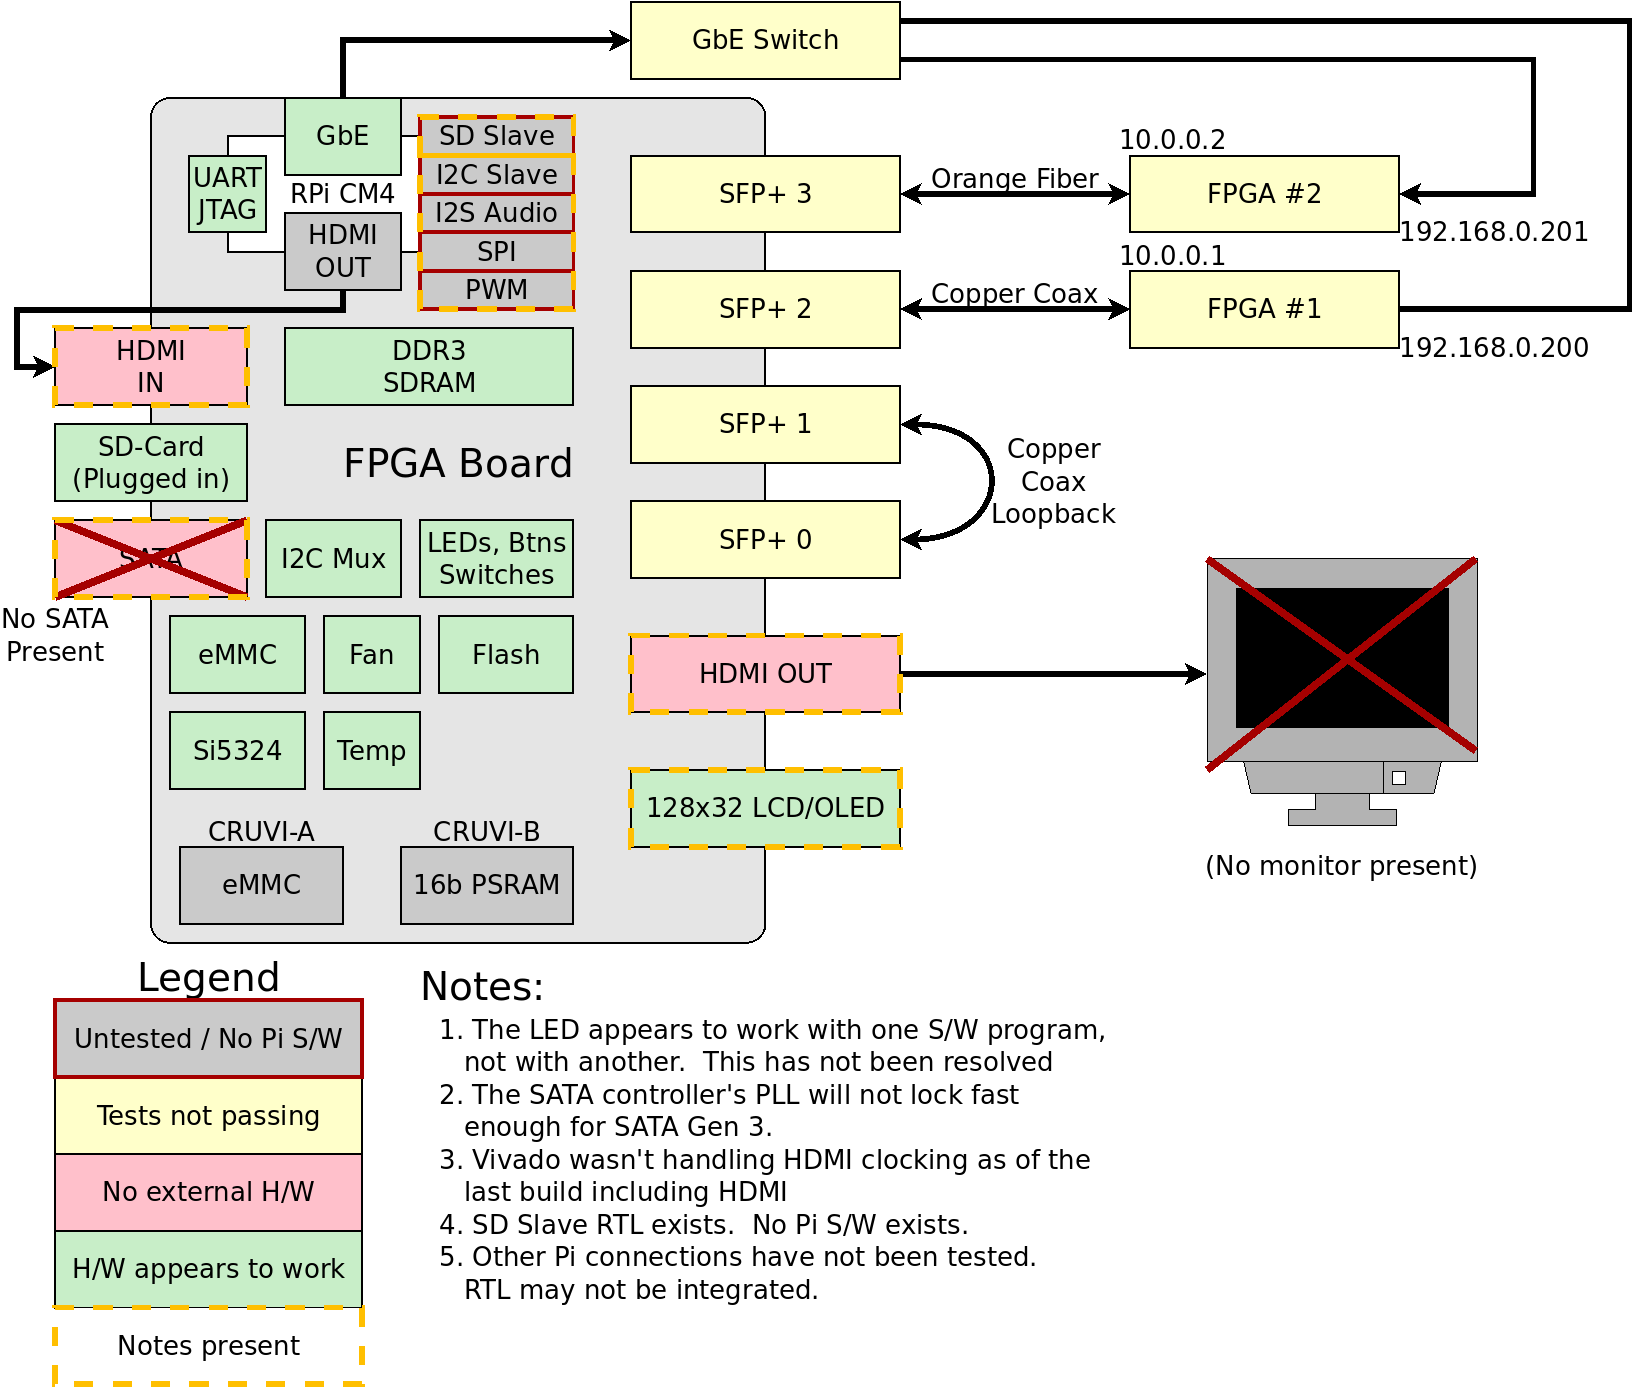
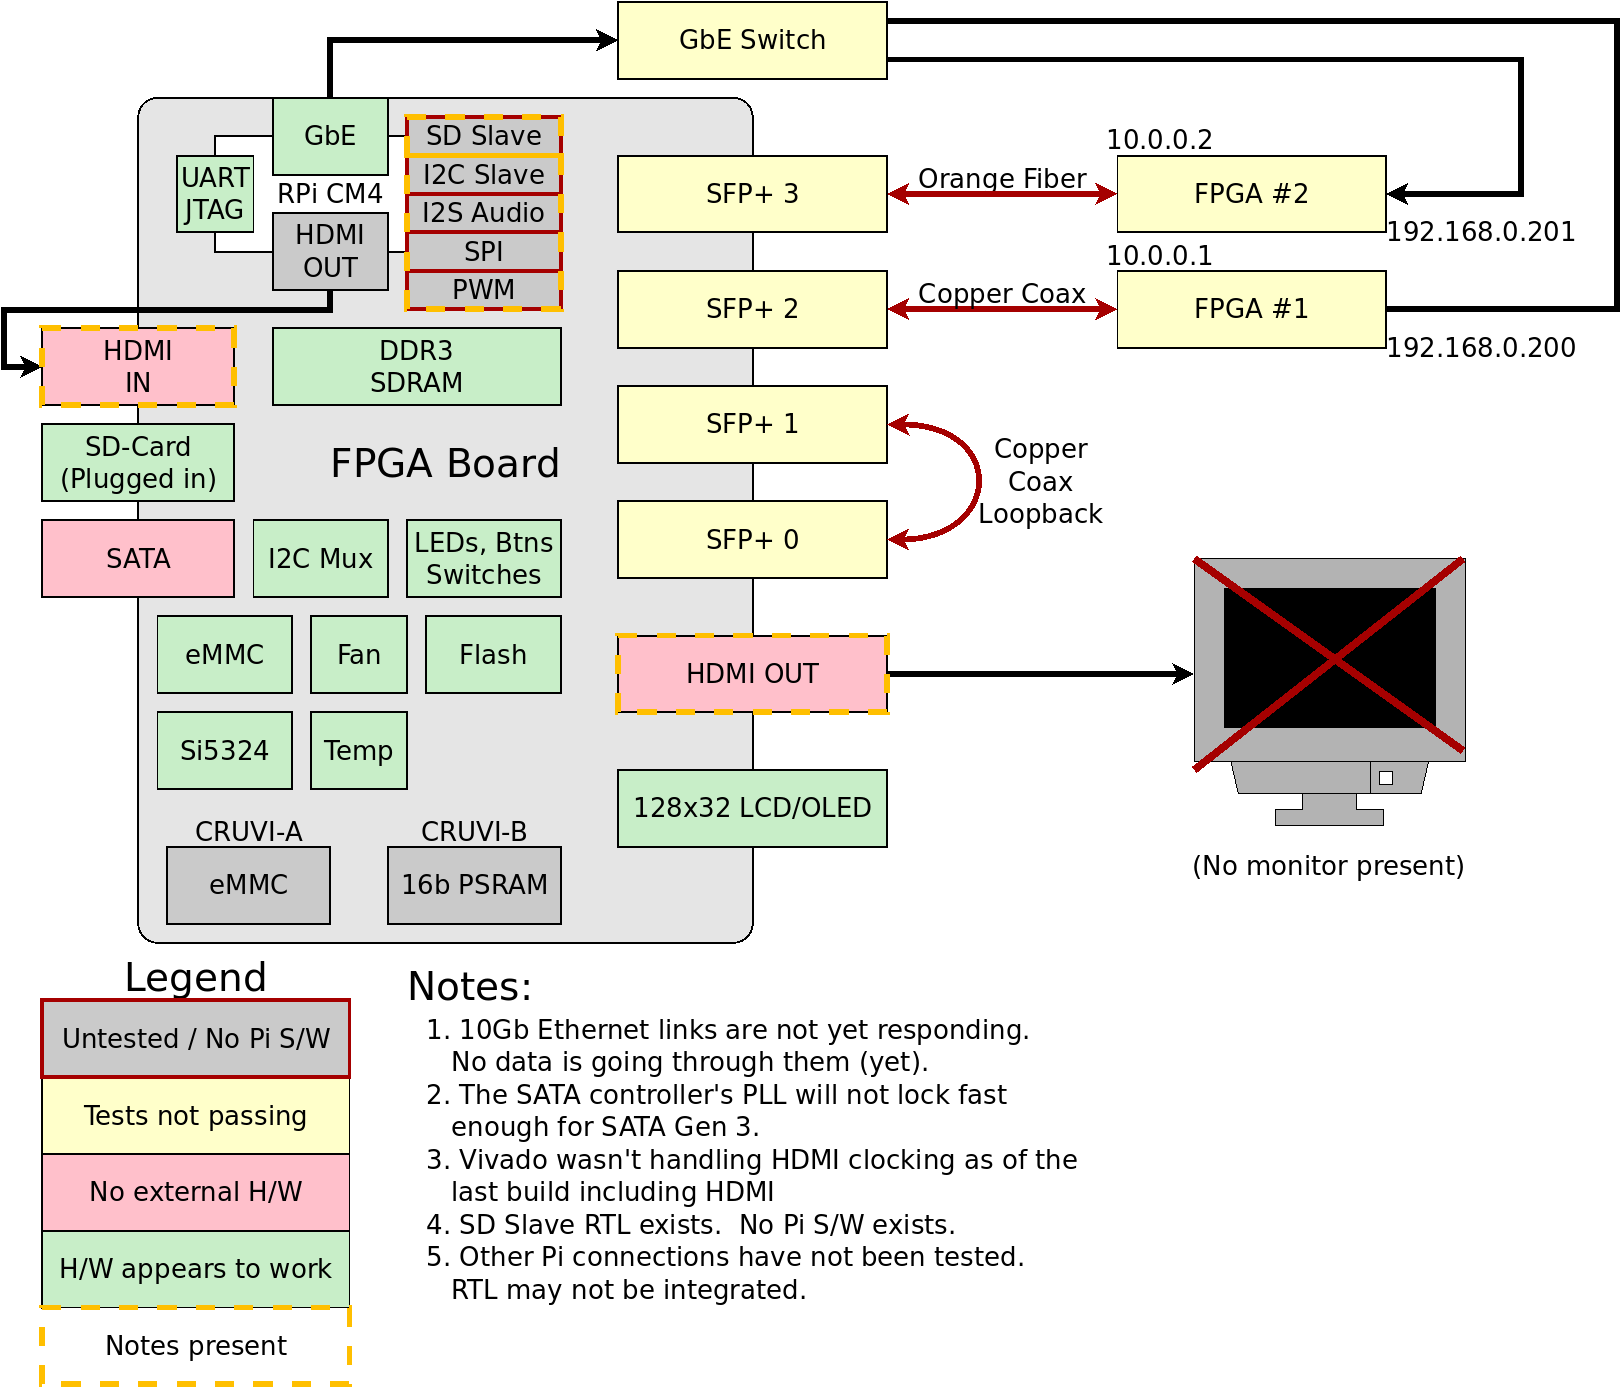
NEW: Simulation console output file option

diff --git a/bench/formal/report.html b/bench/formal/report.html
@@ -1,7 +1,7 @@
 <HTML><HEAD><TITLE>Formal Verification Report</TITLE></HEAD>
 <BODY>
 <H1 align=center>10Gb Ethernet Board Verification Report</H1>
-<H2 align=center>20260810</H2>
+<H2 align=center>20260814</H2>
 <P align=center><TABLE border>
 <TR><TH>Status</TH><TH>Elapsed</TH><TH>Component</TD><TH>Proof</TH><TH>Component description</TH></TR>
 <TR></TR>
@@ -71,7 +71,7 @@
 <TR><TD bgcolor=#caeec8><A HREF="pktvfiford_cvr/logfile.txt">5 Cover points</A></TD><TD>1:43:06</TD><TD>pktvfiford</TD><TD>_cvr</TD></TR>
 <TR></TR>
 <TR><TD bgcolor=#caeec8><A HREF="pktvfifowr_cvr/logfile.txt">7 Cover points</A></TD><TD>0:00:05</TD><TD>pktvfifowr</TD><TD>_cvr</TD><TD rowspan=4>Virtual Packet FIFO (Write)</TD></TR>
-<TR><TD bgcolor=#e5e5e5><A HREF="pktvfifowr_prf512/logfile.txt">Unknown</A></TD><TD>45:00:00</TD><TD>pktvfifowr</TD><TD>_prf512</TD></TR>
+<TR><TD bgcolor=#caeec8><A HREF="pktvfifowr_prf512/logfile.txt">Pass</A></TD><TD>78:00:01</TD><TD>pktvfifowr</TD><TD>_prf512</TD></TR>
 <TR><TD bgcolor=#caeec8><A HREF="pktvfifowr_prf32/logfile.txt">Pass</A></TD><TD>22:00:00</TD><TD>pktvfifowr</TD><TD>_prf32</TD></TR>
 <TR><TD bgcolor=#caeec8><A HREF="pktvfifowr_prf/logfile.txt">Pass</A></TD><TD>32:00:00</TD><TD>pktvfifowr</TD><TD>_prf</TD></TR>
 <TR></TR>

diff --git a/sim/dbluartsim.cpp b/sim/dbluartsim.cpp
@@ -100,10 +100,15 @@ int	DBLUARTSIM::setup_listener(const int port) {
 
 DBLUARTSIM::DBLUARTSIM(const int port, const bool copy_to_stdout)
 		: m_copy(copy_to_stdout) {
+	// {{{
 	m_debug = false;
 	m_con = m_cmd = -1;
-	m_skt = setup_listener(port);
-	m_console = setup_listener(port+1);
+	m_dump = NULL;
+	if (port > 0) {
+		m_skt = setup_listener(port);
+		m_console = setup_listener(port+1);
+	} else
+		m_skt = m_console = -1;
 	m_rxpos = m_cmdpos = m_conpos = m_ilen = 0;
 	m_started_flag = false;
 	setup(25);	// Set us up for (default) 8N1 w/ a baud rate of CLK/25
@@ -113,8 +118,10 @@ DBLUARTSIM::DBLUARTSIM(const int port, const bool copy_to_stdout)
 	m_tx_state = TXIDLE;
 	m_cllen = 0;
 }
+// }}}
 
 void	DBLUARTSIM::kill(void) {
+	// {{{
 	// Close any active connection
 	if (m_con >= 0)	    {
 		const	char	*SIM_CLOSED = "\n[SIM] Connection-Closed\n";
@@ -155,8 +162,10 @@ void	DBLUARTSIM::kill(void) {
 	m_console = -1;
 	m_cmd     = -1;
 }
+// }}}
 
 void	DBLUARTSIM::setup(unsigned isetup) {
+	// {{{
 	if (isetup != m_setup) {
 		m_setup = isetup;
 		m_baud_counts = (isetup & 0x0ffffff);
@@ -167,19 +176,21 @@ void	DBLUARTSIM::setup(unsigned isetup) {
 		m_evenp   = (isetup >> 24)&1;
 	}
 }
+// }}}
 
 void	DBLUARTSIM::poll_accept(void) {
+	// {{{
 	struct	pollfd	pb[2];
 	int	npb = 0;
 
 	// Check if we need to accept any connections
-	if (m_cmd < 0) {
+	if ((m_cmd < 0)&&(m_skt >= 0)) {
 		pb[npb].fd = m_skt;
 		pb[npb].events = POLLIN;
 		npb++;
 	}
 
-	if (m_con < 0) {
+	if ((m_con < 0)&&(m_console >= 0)) {
 		pb[npb].fd = m_console;
 		pb[npb].events = POLLIN;
 		npb++;
@@ -196,13 +207,13 @@ void	DBLUARTSIM::poll_accept(void) {
 				// printf("Not #%d\n", k);
 				continue;
 			}
-			if (pb[k].fd == m_skt) {
+			if ((pb[k].fd == m_skt)&&(m_skt >= 0)) {
 				m_cmd = accept(m_skt, 0, 0);
 
 				if (m_cmd < 0)
 					perror("CMD Accept failed:");
 				else printf("Accepted CMD connection\n");
-			} else if (pb[k].fd == m_console) {
+			} else if ((pb[k].fd == m_console)&&(m_console >= 0)) {
 				m_con = accept(m_console, 0, 0);
 				if (m_con < 0)
 					perror("CON Accept failed:");
@@ -213,8 +224,10 @@ void	DBLUARTSIM::poll_accept(void) {
 
 	// End of trying to accept more connections
 }
+// }}}
 
 void	DBLUARTSIM::poll_read(void) {
+	// {{{
 	struct	pollfd	pb[2];
 	int		npb = 0, r;
 
@@ -284,12 +297,23 @@ void	DBLUARTSIM::poll_read(void) {
 		}
 	} m_rxpos = 0;
 }
+// }}}
 
 void	DBLUARTSIM::received(const char ch) {
+	// {{{
 	if (ch & 0x80) {
 		m_cmdbuf[m_cmdpos++] = ch & 0x7f;
-	} else
-		m_conbuf[m_conpos++] = ch & 0x7f;
+	} else {
+		m_conbuf[m_conpos++] = ch; //  & 0x7f; No need for bitmask here
+		if (m_dump) {
+			fputc(ch, m_dump);
+
+			// Flush on any newline
+			if (ch == '\n')
+				fflush(m_dump);
+		}
+	}
+
 	if ((m_cmdpos>0)&&((m_cmdbuf[m_cmdpos-1] == '\n')
 				||(m_cmdpos >= DBLPIPEBUFLEN-2))) {
 		int	snt = 0;
@@ -330,8 +354,10 @@ void	DBLUARTSIM::received(const char ch) {
 		m_conpos = 0;
 	}
 }
+// }}}
 
 int	DBLUARTSIM::next(void) {
+	// {{{
 	// If our transmit buffer is empty, see if we can
 	// fill it.
 	if (m_ilen == 0)
@@ -345,8 +371,10 @@ int	DBLUARTSIM::next(void) {
 
 	return nval & 0x0ff;
 }
+// }}}
 
 int	DBLUARTSIM::tick(int i_tx) {
+	// {{{
 	int	o_rx = 1;
 
 	poll_accept();
@@ -433,3 +461,23 @@ int	DBLUARTSIM::tick(int i_tx) {
 
 	return o_rx;
 }
+// }}}
+
+void	DBLUARTSIM::setport(int port) {
+	// {{{
+	if (m_skt >= 0)
+		close(m_skt);
+	if (m_console >= 0)
+		close(m_console);
+	m_skt = setup_listener(port);
+	m_console = setup_listener(port+1);
+}
+// }}}
+
+void	DBLUARTSIM::dump_output(const char *fname) {
+	// {{{
+	if (m_dump)
+		fclose(m_dump);
+	m_dump = fopen(fname, "w");
+}
+// }}}

diff --git a/sim/automaster_tb.cpp b/sim/automaster_tb.cpp
@@ -44,7 +44,9 @@
 #include <ctype.h>
 #include <string.h>
 #include <stdint.h>
-
+#if (VM_COVERAGE > 0)
+#define COVERAGE
+#endif
 #include "verilated.h"
 #include "design.h"
 
@@ -67,6 +69,8 @@ void	usage(void) {
 #endif
 "\t-l <time>\tLimits simulation time to the given time\n"
 "\t-d\tSets the debugging flag\n"
+"\t-o <filename>\n"
+	"\t\tCopies console data to the given file\n"
 "\t-t <filename>\n"
 "\t\tTurns on tracing, sends the trace to <filename>--assumed to\n"
 "\t\tbe a vcd file\n"
@@ -86,8 +90,9 @@ int	main(int argc, char **argv) {
 #ifdef	SDSPI_ACCESS
 			*sdimage_file = NULL,
 #endif
+			*trace_file = NULL, // "trace.vcd";
 			*profile_file = NULL,
-			*trace_file = NULL; // "trace.vcd";
+			*console_file = NULL; // "";
 	bool	debug_flag = false, willexit = false, verbose_flag = false;
 	bool	use_gui __attribute__((unused)) = false;
 	FILE	*profile_fp;
@@ -111,14 +116,15 @@ int	main(int argc, char **argv) {
 				break;
 			case 'g': use_gui = true;
 				break;
+			case 'h': usage(); exit(0); break;
 			case 'l':
 				limit_time_ns = strtoul(argv[++argn], NULL, 0);
 				limit_time_ps = limit_time_ns * 1000;
 				j = 1000;
 				break;
 			case 'f': profile_file = "pfile.bin"; break;
+			case 'o': console_file = argv[++argn]; j=1000; break;
 			case 't': trace_file = argv[++argn]; j=1000; break;
-			case 'h': usage(); exit(0); break;
 			case 'v': verbose_flag = true; break;
 			default:
 				fprintf(stderr, "ERR: Unexpected flag, -%c\n\n",
@@ -177,6 +183,9 @@ int	main(int argc, char **argv) {
 	tb->m_core->cpu_sim_data = 0;
 	// tb->m_core->cpu_sim_sel  = 0;
 #endif
+	// tb->m_tb->m_wbu->setport(port);
+	if (console_file)
+		tb->m_tb->m_wbu->dump_output(console_file);
 	tb->reset();
 #ifdef	SDSPI_ACCESS
 	tb->setsdcard(sdimage_file);

diff --git a/sim/dbluartsim.h b/sim/dbluartsim.h
@@ -137,6 +137,12 @@ public:
 	//
 	// Get the next character to transmit (if any)
 	int	next(void);
+	//
+	// Set the port
+	void	setport(int fpga_port);
+	//
+	// Set an output file to dump data to
+	void	dump_output(const char *fname);
 };
 
 #endif
